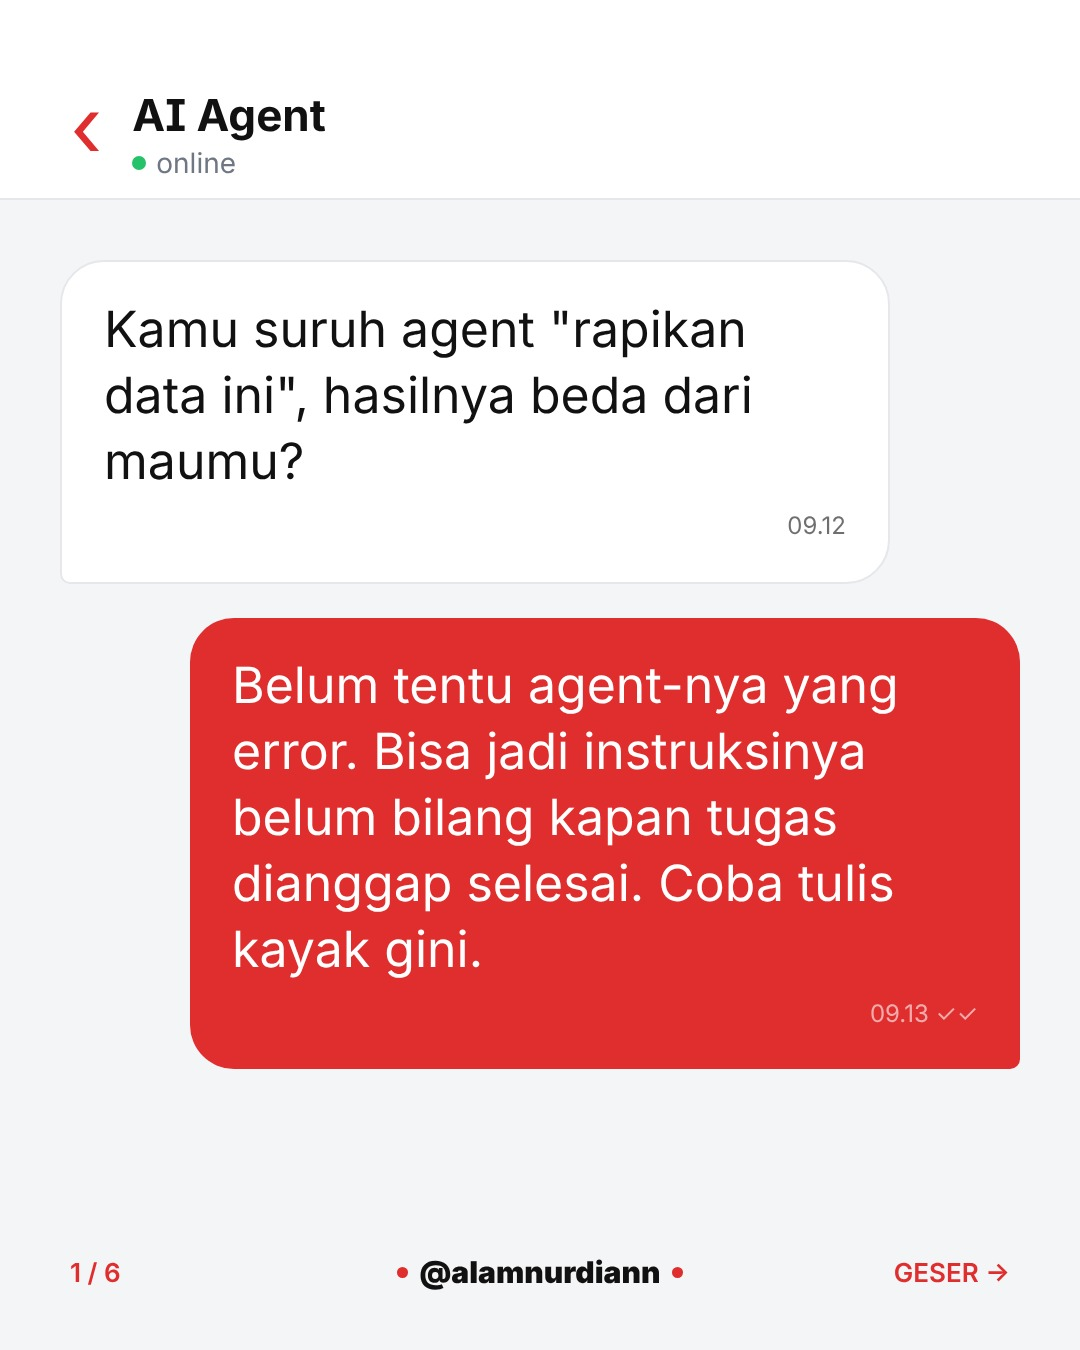
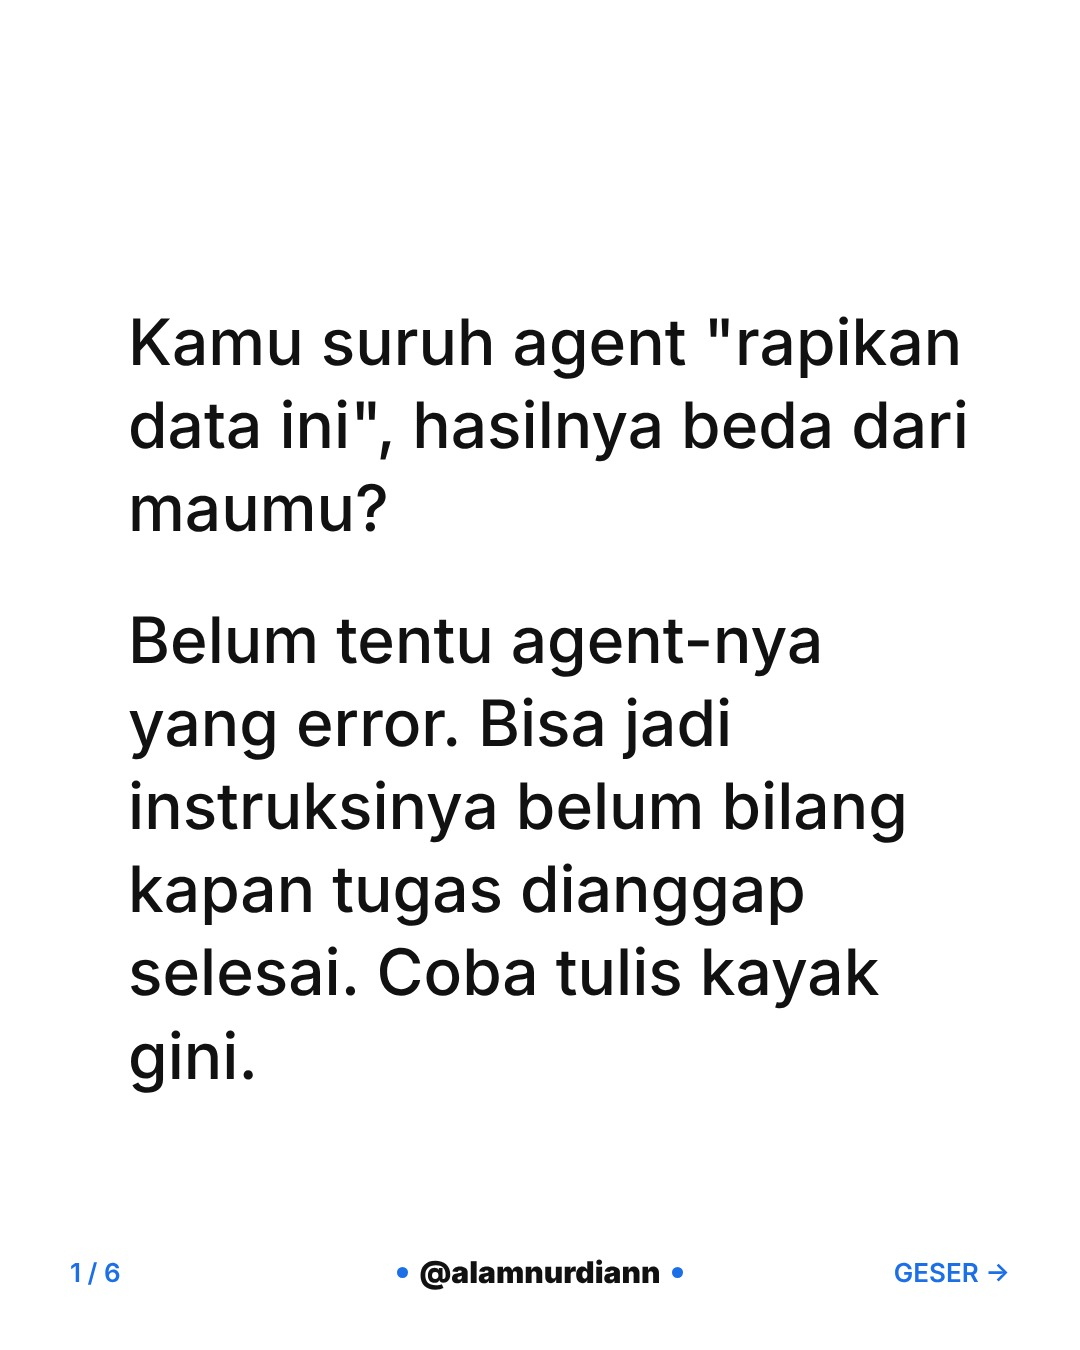
Model chat: warna biru, hook dan ending teks polos seperti sebelumnya (#37)
Claude-Session: https://claude.ai/code/session_01AFKDf2ULdWWCgc2fjnw9uQ

diff --git a/konten-ai-agent/gaya-chat/v13/series.html b/konten-ai-agent/gaya-chat/v13/series.html
@@ -1,15 +1,16 @@
 <!doctype html><html><head><meta charset="utf-8"><style>*{margin:0;padding:0;box-sizing:border-box}body{background:#ccc;font-family:'Inter','DejaVu Sans',sans-serif;font-feature-settings:'cv08' 1;color:#111}
 .s{width:1080px;height:1350px;position:relative;margin-bottom:20px;overflow:hidden;background:#f4f5f7}
 .bar{position:absolute;left:0;right:0;top:0;height:200px;background:#fff;border-bottom:2px solid #e6e7eb;display:flex;align-items:center;gap:30px;padding:70px 70px 0}
-.back{font-size:84px;color:#e02d2d;line-height:1;margin-top:-14px}.who{font-size:44px;font-weight:700}.on{font-size:28px;color:#6f7684;margin-top:4px;display:flex;align-items:center;gap:10px}.on i{width:14px;height:14px;border-radius:50%;background:#25c26a;display:inline-block}
+.back{font-size:84px;color:#1d6fe8;line-height:1;margin-top:-14px}.who{font-size:44px;font-weight:700}.on{font-size:28px;color:#6f7684;margin-top:4px;display:flex;align-items:center;gap:10px}.on i{width:14px;height:14px;border-radius:50%;background:#25c26a;display:inline-block}
 .chat{position:absolute;left:60px;right:60px;top:260px;display:flex;flex-direction:column;gap:34px}
 .msg{max-width:830px;font-size:50px;line-height:1.32;padding:34px 42px 40px;border-radius:44px;position:relative}
 .msg p{margin-bottom:16px}.msg p:last-of-type{margin-bottom:0}
 .msg small{display:block;font-size:24px;margin-top:16px;opacity:.6;text-align:right}
 .in{align-self:flex-start;background:#fff;border:2px solid #e6e7eb;border-bottom-left-radius:10px}
-.out{align-self:flex-end;background:#e02d2d;color:#fff;border-bottom-right-radius:10px}
+.out{align-self:flex-end;background:#1d6fe8;color:#fff;border-bottom-right-radius:10px}
 .tag{display:block;font-size:24px;letter-spacing:.2em;font-weight:800;margin-bottom:12px}
-.bad{color:#e02d2d}.bad .tag{color:#e02d2d}.good .tag{color:#ffe1de}
+.bad{color:#1d6fe8}.bad .tag{color:#1d6fe8}.good .tag{color:#dbe8ff}
 .sys{align-self:center;background:#e9eaee;color:#4b5060;border-radius:40px;padding:14px 32px;font-size:30px;font-weight:600}
-.ft{position:absolute;left:70px;right:70px;bottom:60px;display:grid;grid-template-columns:1fr auto 1fr;align-items:center;font-size:26px;color:#e02d2d;font-weight:600}.ft b{color:#111;font-size:30px;display:flex;gap:12px;align-items:center}.ft i{width:11px;height:11px;border-radius:50%;background:#e02d2d;display:inline-block}.ft span:last-child{text-align:right}
-.sm1 .msg{font-size:44px}.sm2 .msg{font-size:38px}</style></head><body><div class="s"><div class="bar"><div class="back">&#8249;</div><div><div class="who">AI Agent</div><div class="on"><i></i>online</div></div></div><div class="chat"><div class="msg in">Kamu suruh agent "rapikan data ini", hasilnya beda dari maumu?<small>09.12</small></div><div class="msg out">Belum tentu agent-nya yang error. Bisa jadi instruksinya belum bilang kapan tugas dianggap selesai. Coba tulis kayak gini.<small>09.13 ✓✓</small></div></div><div class="ft"><span>1 / 6</span><b><i></i>@alamnurdiann<i></i></b><span>GESER →</span></div></div><div class="s"><div class="bar"><div class="back">&#8249;</div><div><div class="who">AI Agent</div><div class="on"><i></i>online</div></div></div><div class="chat"><div class="sys">Bentuk hasil belum jelas</div><div class="msg in bad"><span class="tag">✗ JANGAN</span>Rapikan data ini.<small>09.14</small></div><div class="msg out good"><span class="tag">✓ TULIS</span><p>Rapikan data ini jadi tabel: nama, tugas, tenggat.</p><p>Satu baris per tugas.</p><small>09.15 ✓✓</small></div></div><div class="ft"><span>2 / 6</span><b><i></i>@alamnurdiann<i></i></b><span>GESER →</span></div></div><div class="s"><div class="bar"><div class="back">&#8249;</div><div><div class="who">AI Agent</div><div class="on"><i></i>online</div></div></div><div class="chat"><div class="sys">Agent berhenti terlalu cepat</div><div class="msg in bad"><span class="tag">✗ JANGAN</span>Lanjutkan lagi.<small>09.14</small></div><div class="msg out good"><span class="tag">✓ TULIS</span><p>Tugas selesai kalau semua baris punya tenggat.</p><p>Cek dulu, lalu sebut yang belum.</p><small>09.15 ✓✓</small></div></div><div class="ft"><span>3 / 6</span><b><i></i>@alamnurdiann<i></i></b><span>GESER →</span></div></div><div class="s"><div class="bar"><div class="back">&#8249;</div><div><div class="who">AI Agent</div><div class="on"><i></i>online</div></div></div><div class="chat"><div class="sys">Datanya tidak lengkap</div><div class="msg in bad"><span class="tag">✗ JANGAN</span>Isi sebisanya.<small>09.14</small></div><div class="msg out good"><span class="tag">✓ TULIS</span><p>Kalau datanya tidak ada, tulis "belum jelas".</p><p>Jangan menebak.</p><small>09.15 ✓✓</small></div></div><div class="ft"><span>4 / 6</span><b><i></i>@alamnurdiann<i></i></b><span>GESER →</span></div></div><div class="s"><div class="bar"><div class="back">&#8249;</div><div><div class="who">AI Agent</div><div class="on"><i></i>online</div></div></div><div class="chat"><div class="sys">Agent mengulang terus</div><div class="msg in bad"><span class="tag">✗ JANGAN</span>Coba lagi sampai benar.<small>09.14</small></div><div class="msg out good"><span class="tag">✓ TULIS</span><p>Berhenti setelah 3 percobaan.</p><p>Laporkan bagian yang belum terpenuhi.</p><small>09.15 ✓✓</small></div></div><div class="ft"><span>5 / 6</span><b><i></i>@alamnurdiann<i></i></b><span>GESER →</span></div></div><div class="s"><div class="bar"><div class="back">&#8249;</div><div><div class="who">AI Agent</div><div class="on"><i></i>online</div></div></div><div class="chat"><div class="msg in">Intinya: agent butuh tanda selesai.<small>09.20</small></div><div class="msg out">Komen AGENT kalau mau paket template-nya.<small>09.21 ✓✓</small></div></div><div class="ft"><span>6 / 6</span><b><i></i>@alamnurdiann<i></i></b><span>SELESAI ✓</span></div></div></body></html>
+.ft{position:absolute;left:70px;right:70px;bottom:60px;display:grid;grid-template-columns:1fr auto 1fr;align-items:center;font-size:26px;color:#1d6fe8;font-weight:600}.ft b{color:#111;font-size:30px;display:flex;gap:12px;align-items:center}.ft i{width:11px;height:11px;border-radius:50%;background:#1d6fe8;display:inline-block}.ft span:last-child{text-align:right}
+.plain{background:#fff}.plain .txt{position:absolute;left:128px;right:110px;top:300px}.plain .txt p{font-size:64px;line-height:1.3;margin-bottom:48px;font-weight:450}
+.sm1 .msg{font-size:44px}.sm2 .msg{font-size:38px}</style></head><body><div class="s plain"><div class="txt"><p>Kamu suruh agent "rapikan data ini", hasilnya beda dari maumu?</p><p>Belum tentu agent-nya yang error. Bisa jadi instruksinya belum bilang kapan tugas dianggap selesai. Coba tulis kayak gini.</p></div><div class="ft"><span>1 / 6</span><b><i></i>@alamnurdiann<i></i></b><span>GESER →</span></div></div><div class="s"><div class="bar"><div class="back">&#8249;</div><div><div class="who">AI Agent</div><div class="on"><i></i>online</div></div></div><div class="chat"><div class="sys">Bentuk hasil belum jelas</div><div class="msg in bad"><span class="tag">✗ JANGAN</span>Rapikan data ini.<small>09.14</small></div><div class="msg out good"><span class="tag">✓ TULIS</span><p>Rapikan data ini jadi tabel: nama, tugas, tenggat.</p><p>Satu baris per tugas.</p><small>09.15 ✓✓</small></div></div><div class="ft"><span>2 / 6</span><b><i></i>@alamnurdiann<i></i></b><span>GESER →</span></div></div><div class="s"><div class="bar"><div class="back">&#8249;</div><div><div class="who">AI Agent</div><div class="on"><i></i>online</div></div></div><div class="chat"><div class="sys">Agent berhenti terlalu cepat</div><div class="msg in bad"><span class="tag">✗ JANGAN</span>Lanjutkan lagi.<small>09.14</small></div><div class="msg out good"><span class="tag">✓ TULIS</span><p>Tugas selesai kalau semua baris punya tenggat.</p><p>Cek dulu, lalu sebut yang belum.</p><small>09.15 ✓✓</small></div></div><div class="ft"><span>3 / 6</span><b><i></i>@alamnurdiann<i></i></b><span>GESER →</span></div></div><div class="s"><div class="bar"><div class="back">&#8249;</div><div><div class="who">AI Agent</div><div class="on"><i></i>online</div></div></div><div class="chat"><div class="sys">Datanya tidak lengkap</div><div class="msg in bad"><span class="tag">✗ JANGAN</span>Isi sebisanya.<small>09.14</small></div><div class="msg out good"><span class="tag">✓ TULIS</span><p>Kalau datanya tidak ada, tulis "belum jelas".</p><p>Jangan menebak.</p><small>09.15 ✓✓</small></div></div><div class="ft"><span>4 / 6</span><b><i></i>@alamnurdiann<i></i></b><span>GESER →</span></div></div><div class="s"><div class="bar"><div class="back">&#8249;</div><div><div class="who">AI Agent</div><div class="on"><i></i>online</div></div></div><div class="chat"><div class="sys">Agent mengulang terus</div><div class="msg in bad"><span class="tag">✗ JANGAN</span>Coba lagi sampai benar.<small>09.14</small></div><div class="msg out good"><span class="tag">✓ TULIS</span><p>Berhenti setelah 3 percobaan.</p><p>Laporkan bagian yang belum terpenuhi.</p><small>09.15 ✓✓</small></div></div><div class="ft"><span>5 / 6</span><b><i></i>@alamnurdiann<i></i></b><span>GESER →</span></div></div><div class="s plain"><div class="txt"><p>Intinya: agent butuh tanda selesai.</p><p>Komen AGENT kalau mau paket template-nya.</p></div><div class="ft"><span>6 / 6</span><b><i></i>@alamnurdiann<i></i></b><span>SELESAI ✓</span></div></div></body></html>

diff --git a/konten-ai-agent/gaya-chat/bubble.js b/konten-ai-agent/gaya-chat/bubble.js
@@ -6,26 +6,27 @@ const HANDLE = '@alamnurdiann'; const lines = s => String(s).split('|').map(x =>
 const bar = `<div class="bar"><div class="back">&#8249;</div><div><div class="who">AI Agent</div><div class="on"><i></i>online</div></div></div>`;
 const foot = (i, n) => `<div class="ft"><span>${i} / ${n}</span><b><i></i>${HANDLE}<i></i></b><span>${i < n ? 'GESER →' : 'SELESAI ✓'}</span></div>`;
 const slidesOf = p => [
-  `<div class="chat"><div class="msg in">${esc(p.a)}<small>09.12</small></div><div class="msg out">${esc(p.b)}<small>09.13 ✓✓</small></div></div>`,
+  `P<div class="txt">${[p.a, p.b].map(x => `<p>${esc(x)}</p>`).join('')}</div>`,
   ...p.k.map(k => `<div class="chat"><div class="sys">${esc(k[0])}</div><div class="msg in bad"><span class="tag">✗ JANGAN</span>${esc(k[1])}<small>09.14</small></div><div class="msg out good"><span class="tag">✓ ${esc(k[3] || 'TULIS')}</span>${lines(k[2])}<small>09.15 ✓✓</small></div></div>`),
-  `<div class="chat"><div class="msg in">${esc(p.e1)}<small>09.20</small></div><div class="msg out">${esc(p.e2)}<small>09.21 ✓✓</small></div></div>`,
+  `P<div class="txt">${[p.e1, p.e2].map(x => `<p>${esc(x)}</p>`).join('')}</div>`,
 ];
 const css = `*{margin:0;padding:0;box-sizing:border-box}body{background:#ccc;font-family:'Inter','DejaVu Sans',sans-serif;font-feature-settings:'cv08' 1;color:#111}
 .s{width:1080px;height:1350px;position:relative;margin-bottom:20px;overflow:hidden;background:#f4f5f7}
 .bar{position:absolute;left:0;right:0;top:0;height:200px;background:#fff;border-bottom:2px solid #e6e7eb;display:flex;align-items:center;gap:30px;padding:70px 70px 0}
-.back{font-size:84px;color:#e02d2d;line-height:1;margin-top:-14px}.who{font-size:44px;font-weight:700}.on{font-size:28px;color:#6f7684;margin-top:4px;display:flex;align-items:center;gap:10px}.on i{width:14px;height:14px;border-radius:50%;background:#25c26a;display:inline-block}
+.back{font-size:84px;color:#1d6fe8;line-height:1;margin-top:-14px}.who{font-size:44px;font-weight:700}.on{font-size:28px;color:#6f7684;margin-top:4px;display:flex;align-items:center;gap:10px}.on i{width:14px;height:14px;border-radius:50%;background:#25c26a;display:inline-block}
 .chat{position:absolute;left:60px;right:60px;top:260px;display:flex;flex-direction:column;gap:34px}
 .msg{max-width:830px;font-size:50px;line-height:1.32;padding:34px 42px 40px;border-radius:44px;position:relative}
 .msg p{margin-bottom:16px}.msg p:last-of-type{margin-bottom:0}
 .msg small{display:block;font-size:24px;margin-top:16px;opacity:.6;text-align:right}
 .in{align-self:flex-start;background:#fff;border:2px solid #e6e7eb;border-bottom-left-radius:10px}
-.out{align-self:flex-end;background:#e02d2d;color:#fff;border-bottom-right-radius:10px}
+.out{align-self:flex-end;background:#1d6fe8;color:#fff;border-bottom-right-radius:10px}
 .tag{display:block;font-size:24px;letter-spacing:.2em;font-weight:800;margin-bottom:12px}
-.bad{color:#e02d2d}.bad .tag{color:#e02d2d}.good .tag{color:#ffe1de}
+.bad{color:#1d6fe8}.bad .tag{color:#1d6fe8}.good .tag{color:#dbe8ff}
 .sys{align-self:center;background:#e9eaee;color:#4b5060;border-radius:40px;padding:14px 32px;font-size:30px;font-weight:600}
-.ft{position:absolute;left:70px;right:70px;bottom:60px;display:grid;grid-template-columns:1fr auto 1fr;align-items:center;font-size:26px;color:#e02d2d;font-weight:600}.ft b{color:#111;font-size:30px;display:flex;gap:12px;align-items:center}.ft i{width:11px;height:11px;border-radius:50%;background:#e02d2d;display:inline-block}.ft span:last-child{text-align:right}
+.ft{position:absolute;left:70px;right:70px;bottom:60px;display:grid;grid-template-columns:1fr auto 1fr;align-items:center;font-size:26px;color:#1d6fe8;font-weight:600}.ft b{color:#111;font-size:30px;display:flex;gap:12px;align-items:center}.ft i{width:11px;height:11px;border-radius:50%;background:#1d6fe8;display:inline-block}.ft span:last-child{text-align:right}
+.plain{background:#fff}.plain .txt{position:absolute;left:128px;right:110px;top:300px}.plain .txt p{font-size:64px;line-height:1.3;margin-bottom:48px;font-weight:450}
 .sm1 .msg{font-size:44px}.sm2 .msg{font-size:38px}`;
-const html = `<!doctype html><html><head><meta charset="utf-8"><style>${css}</style></head><body>${posts.map(p => slidesOf(p).map((b, i, a) => `<div class="s">${bar}${b}${foot(i + 1, a.length)}</div>`).join('')).join('')}</body></html>`;
+const html = `<!doctype html><html><head><meta charset="utf-8"><style>${css}</style></head><body>${posts.map(p => slidesOf(p).map((b, i, a) => (b[0] === 'P' ? `<div class="s plain">${b.slice(1)}${foot(i + 1, a.length)}</div>` : `<div class="s">${bar}${b}${foot(i + 1, a.length)}</div>`)).join('')).join('')}</body></html>`;
 const dir = path.join(__dirname, process.env.OUT || 'v13'); fs.mkdirSync(path.join(dir, 'slides'), { recursive: true }); fs.writeFileSync(path.join(dir, 'series.html'), html);
 (async () => {
   const b = await chromium.launch(); const pg = await b.newPage({ viewport: { width: 1080, height: 1350 } });
@@ -33,7 +34,7 @@ const dir = path.join(__dirname, process.env.OUT || 'v13'); fs.mkdirSync(path.jo
   const els = await pg.$$('.s'); let k = 0;
   for (const p of posts) for (let j = 0; j < 6; j++) {
     const el = els[k++];
-    const over = () => el.evaluate(s => s.querySelector('.chat').getBoundingClientRect().bottom - s.getBoundingClientRect().top - 1230);
+    const over = () => el.evaluate(s => s.querySelector('.chat,.txt').getBoundingClientRect().bottom - s.getBoundingClientRect().top - 1230);
     let o = await over(); for (const c of ['sm1', 'sm2']) if (o > 0) { await el.evaluate((s, c) => { s.className = 's ' + c; }, c); o = await over(); }
     if (o > 0) console.log('OVERFLOW', p.id, j + 1, Math.round(o));
     await el.screenshot({ path: path.join(dir, 'slides', `${String(p.id).padStart(2, '0')}-s${j + 1}.jpg`), type: 'jpeg', quality: 92 });
